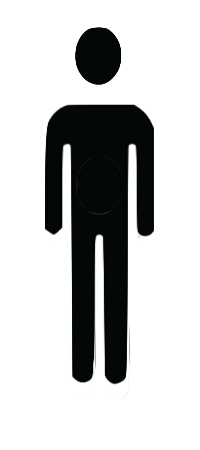
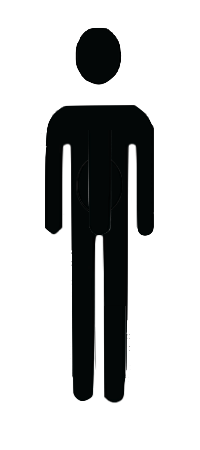
Made the legs longer

diff --git a/src/pages/home/home.html b/src/pages/home/home.html
@@ -26,8 +26,7 @@
             <div class="temperature_animation">
                 <div class="front">{{temp_str}}</div>
                 <div class="front back">{{weather.name}}</div>
-              <!--</div>-->
-
+          
           </div>
           </div>
         </ion-row>
@@ -38,12 +37,6 @@
 
     <div class ="avatar" #clothing>
     <div *ngIf="recommendation">
-      <!--<div class="avatar">
-        -<ion-row center>
-          <img [src]="avatar_url">
-        </ion-row>
-        <img [src]="avatar_url">
-      </div>-->
 
       <ion-row>
         <ion-slides class="slide" #slideOne (ionSlideTap) = "slideTapped(0)">
